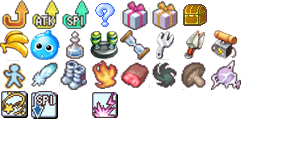
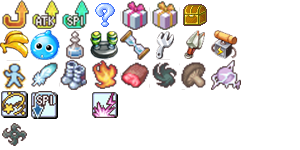
飞镖完成，同时极限坐标修正完成
下一步：变身道具

Changed region(s): [[0.0, 0.8267, 0.09, 0.9867]]

diff --git a/BomberManOnline/Game.cpp b/BomberManOnline/Game.cpp
@@ -278,6 +278,16 @@ void CGame::Render(ID2D1HwndRenderTarget* render_target)
 		}
 	}
 
+	//Draw darts
+	for(CMovingObjects now_dart : darts)
+	{
+		PointF now_pos = now_dart.GetPosPixel();
+		p_res_manager->icons.DrawImage(render_target,
+			now_pos.x, now_pos.y, 
+			GRID_WIDTH, GRID_HEIGHT,
+			0, 4*ITEM_HEIGHT);
+	}
+
 	//Draw Map Border
 	render_target->DrawRectangle(&map_area, stroke_brush, 1);
 
@@ -385,8 +395,11 @@ GameState CGame::Update(float game_time)
 
 		PointF next_pos_pixel = player[i].TryMove(game_time);
 		CPoint next_pos_judge = GetJudgePoint(next_pos_pixel);
-		if(game_map.InBound(next_pos_pixel) && 
-			game_map.NoCollision(next_pos_pixel, player[i].GetMovingDirection(), player[i].SpecialAccess() ) )
+		int now_direction = player[i].GetMovingDirection();
+
+		bool no_collision = game_map.NoCollision(next_pos_pixel, now_direction, player[i].SpecialAccess());
+
+		if(game_map.InBound(next_pos_pixel) && no_collision )
 		{
 			//OutputDebugPrintf("%lf %lf\n", player[my_player].GetPosPixel().x, player[my_player].GetPosPixel().y);
 			player[i].Move(game_time);
@@ -404,15 +417,50 @@ GameState CGame::Update(float game_time)
 				game_map.SetGrid(now_judgegrid.x, now_judgegrid.y, MAP_ELEMENTS::NONE);
 			}
 		}
-		else if(player[i].GetMovingDirection() != STOP)
+		else if(now_direction != STOP)
 		{
 			if(player[i].Status() == PLAYER_STATUS::FLIPPING)
 			{
 				player[i].SetStatus(PLAYER_STATUS::NONE);
 				player[i].ClearMovingState();
 			}
-			/*PointF adjusted_point = game_map.AdjustPoint(next_pos_pixel, player[i].GetMovingDirection());
-			player[i].SetPosPixel(adjusted_point.x, adjusted_point.y);*/
+			if(no_collision)
+			{
+				PointF adjusted_point = game_map.RepelPoint(next_pos_pixel, now_direction);
+				player[i].SetPosPixel(adjusted_point.x, adjusted_point.y);
+			}
+		}
+	}
+
+	//update darts
+	for(list<CMovingObjects>::iterator it = darts.begin(); it!=darts.end(); )
+	{
+		PointF next_pos_pixel = it->TryMove(game_time);
+		CPoint next_pos_judge = GetJudgePoint(next_pos_pixel);
+		int now_direction = it->GetMovingDirection();
+
+		if(game_map.InBound(next_pos_pixel) && 
+			game_map.NoCollision(next_pos_pixel, now_direction ) )
+		{
+			//OutputDebugPrintf("%lf %lf\n", player[my_player].GetPosPixel().x, player[my_player].GetPosPixel().y);
+			it->Move(game_time);
+			it++;
+		}
+		else
+		{
+			next_pos_pixel = game_map.RepelPoint(next_pos_pixel, now_direction);
+			next_pos_judge = GetJudgePoint(next_pos_pixel) + DIRECT_VEC[now_direction];
+			if(game_map.InBound(next_pos_pixel) )
+			{
+				if(game_map.GridType(next_pos_judge.x, next_pos_judge.y) != MAP_ELEMENTS::BOMB)
+				{
+					next_pos_judge += DIRECT_VEC[it->GetMovingDirection()];
+				}
+
+				int index = game_map.GetIndex(next_pos_judge.x, next_pos_judge.y);
+				bomb_manager.SuddenExplode(index);
+			}
+			it=darts.erase(it);
 		}
 	}
 	
@@ -488,7 +536,7 @@ GameState CGame::Update(float game_time)
 
 int CGame::CalcBombResult()
 {
-	return int(Item::LASER);
+	return int(Item::DART);
 }
 
 void CGame::TouchItem( int num, int item_index )
@@ -618,7 +666,8 @@ void CGame::UseItem( int user, Item item )
 	}
 	else if(item == Item::DART)
 	{
-
+		CMovingObjects new_dart(player[user].GetPosJudgeGrid(), DART_SPEED, player[user].Facing());
+		darts.push_back(new_dart);
 	}
 	else if(item == Item::ESCAPE)
 	{

diff --git a/BomberManOnline/GameMap.cpp b/BomberManOnline/GameMap.cpp
@@ -172,16 +172,31 @@ int CGameMap::GetIndex( int x, int y )
 	return grid[x][y].second;
 }
 
-/*PointF CGameMap::AdjustPoint( PointF next_point, int direction )
+PointF CGameMap::RepelPoint( PointF next_point, int direction )
 {
-	if(VerifyPoint(next_point, direction) == true)
-		return next_point;
-
 	PointF points[5];
 	points[1] = next_point;
 	points[2] = next_point + PointF(SPRITE_WIDTH, 0);
 	points[3] = next_point + PointF(0, SPRITE_HEIGHT);
 	points[4] = next_point + PointF(SPRITE_WIDTH, SPRITE_HEIGHT);
 
-	
-}*/
+	if(direction == UP) // Repel to down
+	{
+		return PointF(points[1].x, ceil(points[1].y/GRID_HEIGHT)*GRID_HEIGHT);
+	}
+	else if(direction == DOWN) //Repel to up
+	{
+		points[3].y = floor(points[3].y/GRID_HEIGHT)*GRID_HEIGHT;
+		return points[3] + PointF(0, -SPRITE_HEIGHT);
+	}
+	else if(direction == LEFT) //Repel to right
+	{
+		points[1].x = ceil(points[1].x/GRID_WIDTH)*GRID_WIDTH;
+		return points[1];
+	}
+	else /*if (direction == RIGHT)*/
+	{
+		points[2].x = floor(points[2].x/GRID_WIDTH)*GRID_WIDTH;
+		return points[2] + PointF(-SPRITE_WIDTH, 0);
+	}
+}

diff --git a/BomberManOnline/GameMap.h b/BomberManOnline/GameMap.h
@@ -18,7 +18,7 @@ public:
 	~CGameMap(void);
 
 	/*Verify whether next_point is ok to go*/
-	bool NoCollision(PointF next_point, int direction, pair<CPoint, bool> special_access);
+	bool NoCollision(PointF next_point, int direction, pair<CPoint, bool> special_access = make_pair(CPoint(0,0), false));
 	bool InBound(PointF next_point);
 	bool InBound(CPoint p);
 
@@ -30,6 +30,6 @@ public:
 	
 	void Init();
 	void Init(int map_number);
-	//PointF AdjustPoint(PointF next_point, int direction);
+	PointF RepelPoint(PointF next_point, int direction);
 };
 

diff --git a/BomberManOnline/MovingObjects.h b/BomberManOnline/MovingObjects.h
@@ -14,6 +14,7 @@ protected:
 public:
 	CMovingObjects(void);
 	virtual ~CMovingObjects(void);
+	CMovingObjects(CPoint p, float s, int dir);
 
 	void SetPosPixel(float x, float y);
 
@@ -50,6 +51,6 @@ public:
 	virtual int GetMovingDirection(){return direction;}
 	virtual void Move(float game_time);
 	CPoint NextGrid(int direction);
-	PointF TryMove(float game_time);
+	virtual PointF TryMove(float game_time);
 };
 

diff --git a/BomberManOnline/WinMain.cpp b/BomberManOnline/WinMain.cpp
@@ -98,7 +98,7 @@ int WINAPI WinMain( __in HINSTANCE hInstance, __in_opt HINSTANCE hPrevInstance, 
 		now_time = timeGetTime();
 		if(now_time - last_time >= 1000/MAX_FPS)
 		{
-			OutputDebugPrintf("%lf\n", now_time - last_time);
+			//OutputDebugPrintf("%lf\n", now_time - last_time);
 			application->Update(now_time - last_time);
 			application->OnRender();
 			last_time = now_time;

diff --git a/BomberManOnline/Game.h b/BomberManOnline/Game.h
@@ -9,6 +9,7 @@
 #include "SceneBase.h"
 #include "D2D1Header.h"
 #include "Item.h"
+#include <list>
 
 #pragma region RenderType Defination
 
@@ -67,6 +68,7 @@ public:
 
 	vector<CBomb> exploding_bombs;
 	vector<RenderNode> render_nodes;
+	list<CMovingObjects> darts;
 
 public:
 	CGame(void);

diff --git a/BomberManOnline/MovingObjects.cpp b/BomberManOnline/MovingObjects.cpp
@@ -5,6 +5,14 @@ CMovingObjects::CMovingObjects(void)
 {
 }
 
+CMovingObjects::CMovingObjects( CPoint p, float s, int dir )
+{
+	pos.x = float(p.x*GRID_WIDTH);
+	pos.y = float(p.y*GRID_HEIGHT);
+	speed.SetPoint(s,s);
+	direction = dir;
+}
+
 
 CMovingObjects::~CMovingObjects(void)
 {

diff --git a/BomberManOnline/stdafx.h b/BomberManOnline/stdafx.h
@@ -46,6 +46,7 @@ const int DEFAULT_BOMBPOWER = 5;
 const int DEFAULT_FIRETIME = 300;
 const float DEFAULT_SPEED = 0.2f;
 const float DELTA_SPEED = 0.02f;
+const float DART_SPEED = 0.4;
 
 const int LOGIN_MAX_BUTTON = 6;
 const int LOGIN_MAX_ICON = 3;
